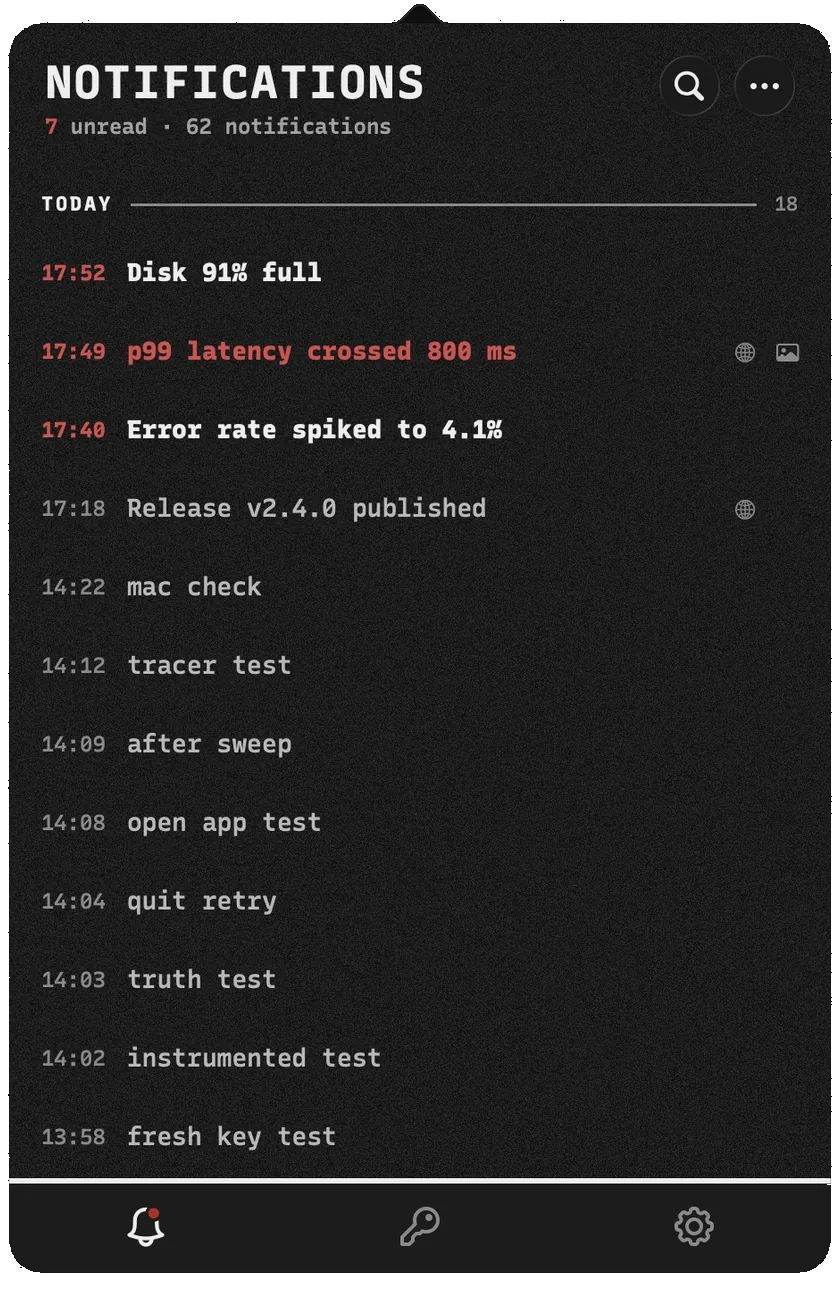
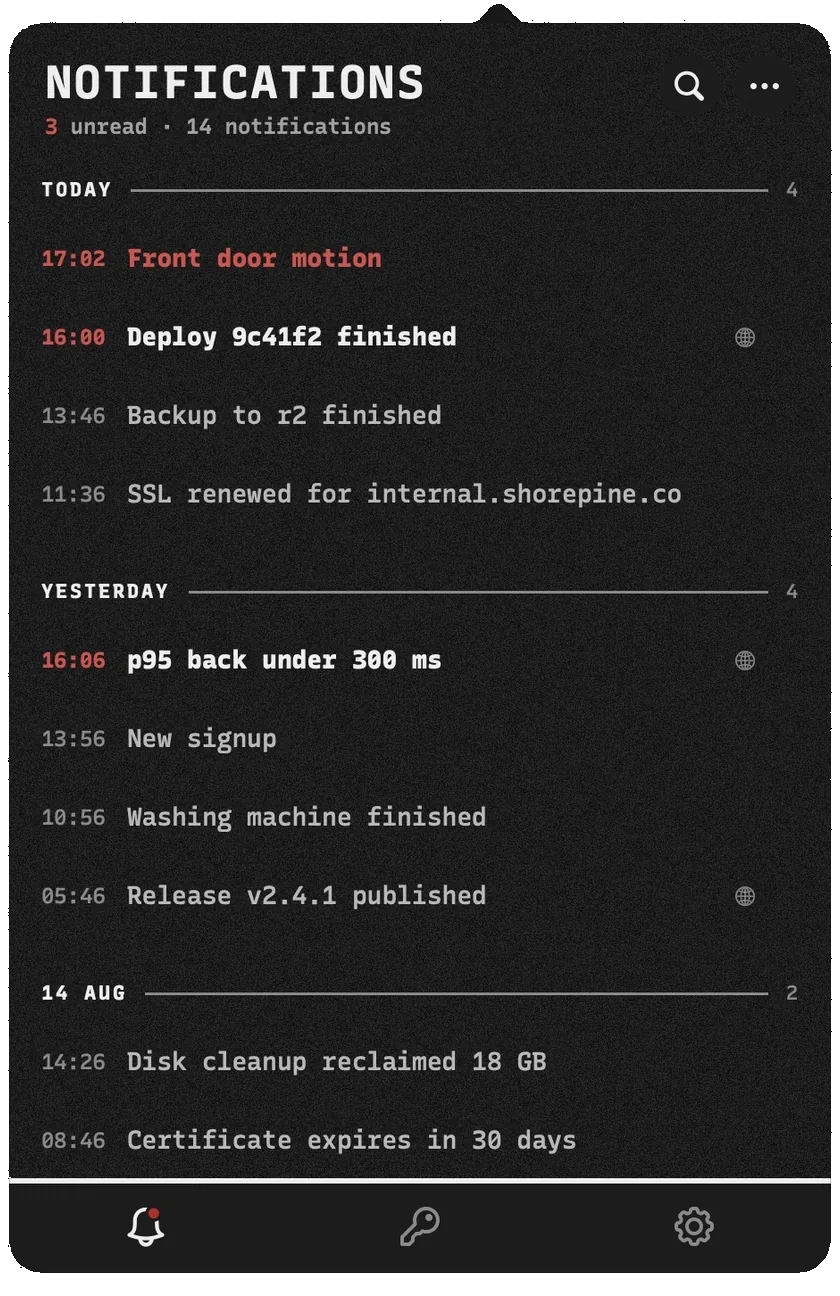
Give the Mac popover shot its own rows, one day never more than five (#199)
The macOS sample set is distinct from the iOS one and spreads 14
messages so no day holds more than five. Sample runs now use an
in-memory store, so the machine's real messages can never leak into a
captured shot again (the old mac.webp carried real dev-test rows).

The hero curl example now sends hello world.

Also strips the comments that arrived on main with #99 — the lint gate
fails everything until they go.

diff --git a/apps/app/Shared/Support/SampleData.swift b/apps/app/Shared/Support/SampleData.swift
@@ -73,6 +73,62 @@ enum SampleData {
 
         let demo = "https://notifi.it/demo"
 
+        #if os(macOS)
+        let rows: [(String, String?, String?, String?, Int, Bool)] = [
+            ("Front door motion",
+             "Someone at the door — clip saved to the hub.",
+             nil, nil, 14, true),
+
+            ("Deploy 9c41f2 finished",
+             "Rolled out to eu-west-2 in 38s. All checks green.",
+             nil, "https://ci.notifi.sh/builds/1291", 76, true),
+
+            ("Backup to r2 finished",
+             "pg → r2, 4.6 GB in 2m 58s.",
+             nil, nil, 210, false),
+
+            ("SSL renewed for internal.shorepine.co",
+             nil, nil, nil, 340, false),
+
+            ("p95 back under 300 ms",
+             "Recovered after the 02:10 spike. No action needed.",
+             nil, "https://grafana.internal/d/api-latency", 1_510, true),
+
+            ("New signup",
+             "hannah@shorepine.co upgraded to Pro — seat 12 of 25.",
+             nil, nil, 1_640, false),
+
+            ("Washing machine finished",
+             nil, nil, nil, 1_820, false),
+
+            ("Release v2.4.1 published",
+             nil, nil,
+             "https://github.com/notifi/notifi/releases/tag/v2.4.1", 2_130, false),
+
+            ("Disk cleanup reclaimed 18 GB",
+             "vault-01 is back to 26% used.",
+             nil, nil, 3_050, false),
+
+            ("Certificate expires in 30 days",
+             "The star.shorepine.co wildcard renews on the 14th.",
+             nil, nil, 3_390, false),
+
+            ("Incident INC-2051 resolved",
+             "Delivery delays cleared after the queue redrive completed.",
+             nil, nil, 4_490, false),
+
+            ("Weekly digest ready",
+             "402 messages, 31 alerts, 0 incidents. Median delivery 235 ms.",
+             nil, "https://notifi.sh/digest/2026-w32", 4_720, false),
+
+            ("Nightly backup complete",
+             nil, nil, nil, 5_960, false),
+
+            ("Welcome to notifi",
+             "This is what a notification looks like. Send one with your first key.",
+             nil, nil, 400 * 24 * 60, false),
+        ]
+        #else
         let rows: [(String, String?, String?, String?, Int, Bool)] = [
             ("p99 latency crossed 800 ms",
              """
@@ -191,6 +247,7 @@ enum SampleData {
              "This is what a notification looks like. Send one with your first key.",
              nil, nil, 400 * 24 * 60, false),
         ]
+        #endif
 
         for (index, row) in rows.enumerated() {
             let (title, body, image, link, minutes, unread) = row

diff --git a/apps/api/public/index.html b/apps/api/public/index.html
@@ -695,9 +695,9 @@ footer{border-top:1px solid var(--line);padding:40px 0 56px}
         <!-- A literal placeholder rather than $NOTIFI_KEY: a first-time reader
              has nothing in that variable, so pasting the shell-variable form
              sends an empty key and answers 401. -->
-        <button class="copy" aria-label="Copy the example curl command" data-copy='curl https://notifi.it/send -d key=nk_yourkeyhere -d title="Deploy finished"'>Copy</button>
+        <button class="copy" aria-label="Copy the example curl command" data-copy='curl https://notifi.it/send -d key=nk_yourkeyhere -d title="hello world"'>Copy</button>
       </div>
-<pre><span class="p">$</span> curl https://notifi.it/send -d key=<span class="k">nk_yourkeyhere</span> -d title=<span class="s">"Deploy finished"</span>
+<pre><span class="p">$</span> curl https://notifi.it/send -d key=<span class="k">nk_yourkeyhere</span> -d title=<span class="s">"hello world"</span>
 <span class="c">{"ok":true}</span></pre>
     </div>
     <!-- Carries the one instruction the removed three-step section was for:

diff --git a/apps/app/Shared/NotifiApp.swift b/apps/app/Shared/NotifiApp.swift
@@ -29,6 +29,12 @@ struct NotifiApp: App {
 
     static func makeContainer() -> ModelContainer {
         do {
+            #if DEBUG
+            if SampleData.isEnabled {
+                let config = ModelConfiguration(isStoredInMemoryOnly: true)
+                return try ModelContainer(for: Message.self, configurations: config)
+            }
+            #endif
             let container = try ModelContainer(for: Message.self)
             if let url = container.configurations.first?.url {
                 OnDiskProtection.protect(url)
